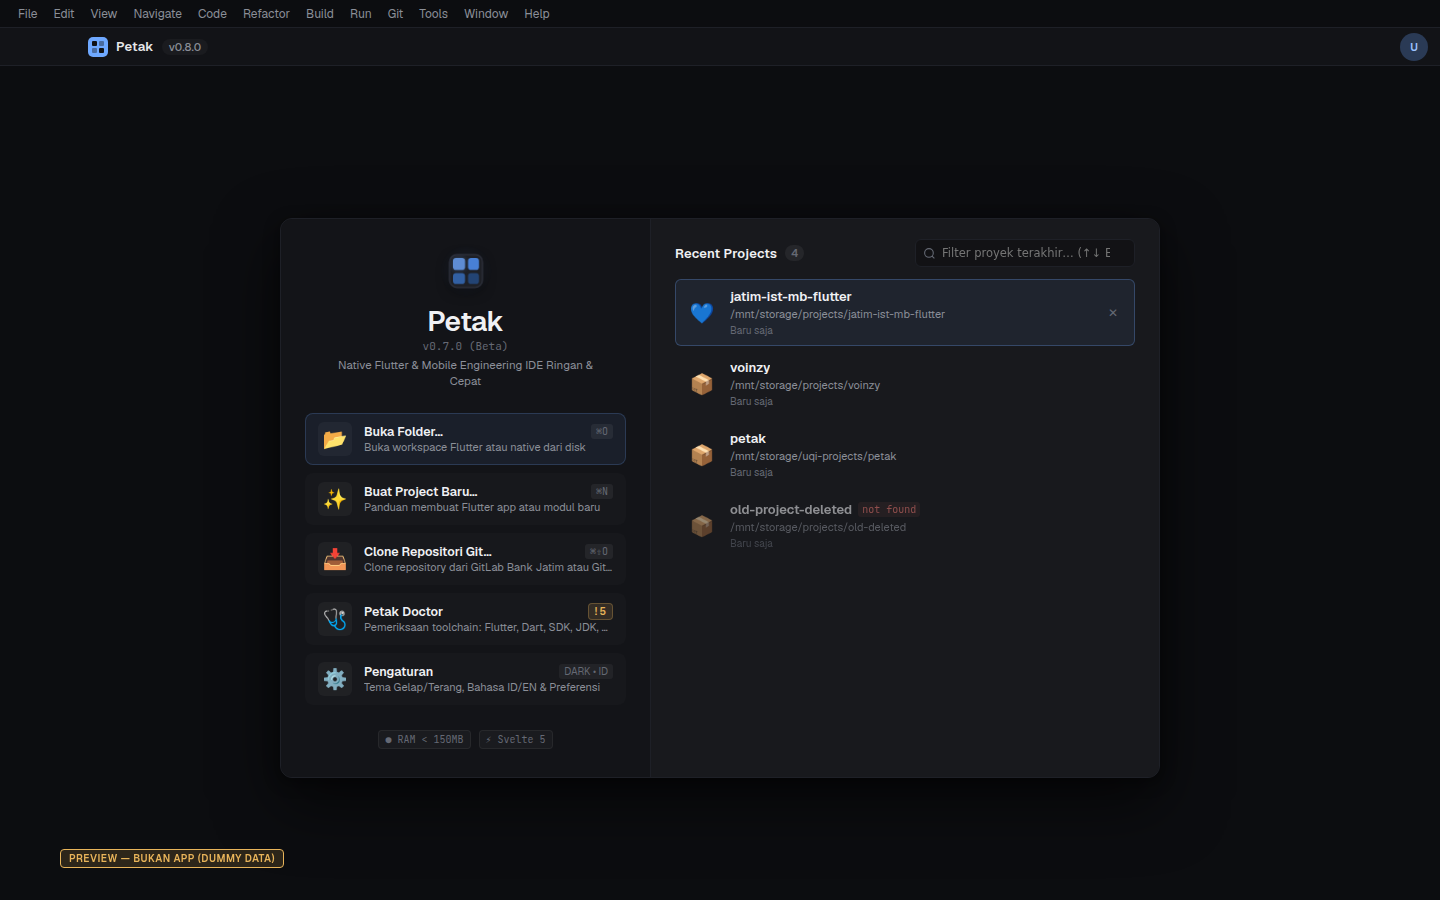
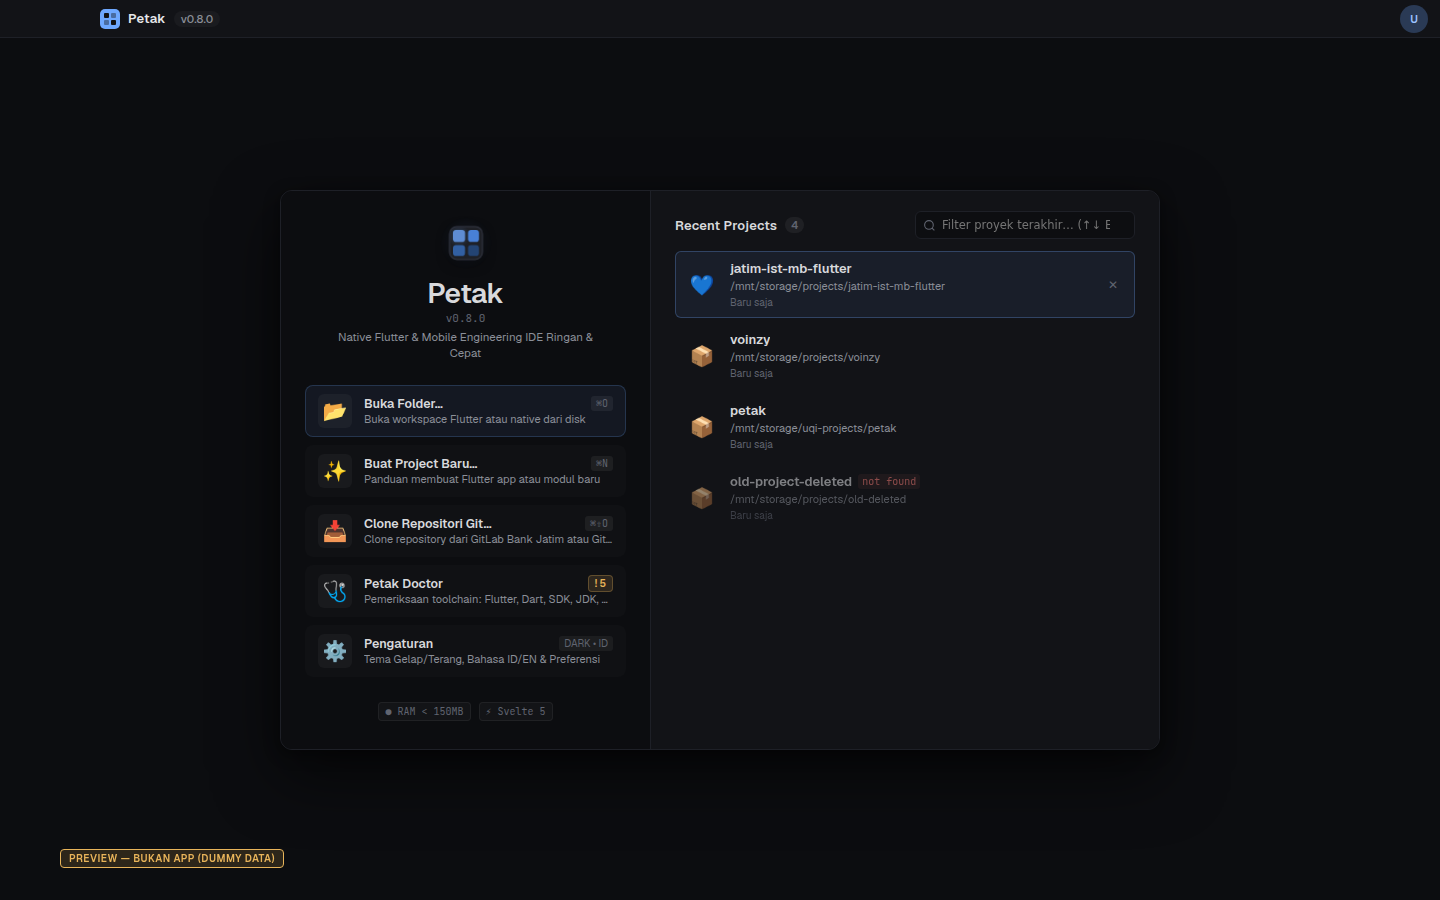
docs: add model selector dropdown to comprehensive prototype and capture screens

diff --git a/docs/redesign/comprehensive-design-system.html b/docs/redesign/comprehensive-design-system.html
@@ -4118,8 +4118,32 @@
                     </div>
 
                     <div>
-                      <label style="font-size: 11px; color: var(--text-muted); display: block; margin-bottom: 4px;">Model ID:</label>
-                      <input type="text" class="setting-select-box" value="claude-3-7-sonnet" style="width: 100%; font-family: var(--font-mono);">
+                      <label style="font-size: 11px; color: var(--text-muted); display: block; margin-bottom: 4px;">Model ID (Pilih dari Dropdown):</label>
+                      <select class="setting-select-box" id="demo-model-select" style="width: 100%; font-family: var(--font-mono);" onchange="document.getElementById('demo-model-hint').innerText = this.options[this.selectedIndex].dataset.desc || '';">
+                        <optgroup label="Anthropic Claude">
+                          <option value="claude-3-7-sonnet" data-desc="Hybrid Reasoning & Coding Flagship" selected>Claude 3.7 Sonnet (claude-3-7-sonnet) ★ Rekomendasi</option>
+                          <option value="claude-3-5-sonnet-20241022" data-desc="Coding Utama Cepat & Akurat">Claude 3.5 Sonnet v2 (claude-3-5-sonnet-20241022)</option>
+                          <option value="claude-3-5-haiku-20241022" data-desc="Sangat Cepat & Hemat Token">Claude 3.5 Haiku (claude-3-5-haiku-20241022)</option>
+                          <option value="ag/claude-opus-4-6-thinking" data-desc="via Antigravity / Deep Thinking">Claude Opus 4.6 Thinking (ag/claude-opus-4-6-thinking)</option>
+                        </optgroup>
+                        <optgroup label="Google Gemini">
+                          <option value="ag/gemini-3.8-flash-high" data-desc="via Antigravity — Rekomendasi Hermes">Gemini 3.8 Flash High (ag/gemini-3.8-flash-high) ★ Rekomendasi</option>
+                          <option value="gemini-2.5-pro" data-desc="Reasoning Kuat & Multimodal">Gemini 2.5 Pro (gemini-2.5-pro)</option>
+                          <option value="gemini-2.5-flash" data-desc="Super Cepat & Hemat Kuota">Gemini 2.5 Flash (gemini-2.5-flash)</option>
+                        </optgroup>
+                        <optgroup label="OpenAI GPT">
+                          <option value="gpt-4o" data-desc="Multimodal Omnimodel Flagship">GPT-4o (gpt-4o) ★ Rekomendasi</option>
+                          <option value="gpt-4o-mini" data-desc="Hemat Token & Kencang">GPT-4o Mini (gpt-4o-mini)</option>
+                          <option value="o3-mini" data-desc="STEM & Coding Reasoning">o3-mini (o3-mini)</option>
+                        </optgroup>
+                        <optgroup label="Local Ollama">
+                          <option value="qwen2.5-coder:32b" data-desc="Coding Lokal Terbaik">Qwen 2.5 Coder 32B (qwen2.5-coder:32b) ★ Rekomendasi</option>
+                          <option value="qwen2.5-coder:14b" data-desc="Cepat & Akurat untuk Mac 16GB">Qwen 2.5 Coder 14B (qwen2.5-coder:14b)</option>
+                          <option value="qwen2.5-coder:7b" data-desc="Enteng untuk Mac 8GB">Qwen 2.5 Coder 7B (qwen2.5-coder:7b)</option>
+                        </optgroup>
+                        <option value="custom">✏ Ketik Manual (Custom Model ID)...</option>
+                      </select>
+                      <span id="demo-model-hint" style="font-size: 11px; color: var(--text-muted); display: block; margin-top: 4px;">ℹ Hybrid Reasoning & Coding Flagship</span>
                     </div>
 
                     <div>

diff --git a/ui/App.svelte b/ui/App.svelte
@@ -1511,6 +1511,10 @@
         if (params.has('agent') || window.location.search.includes('preview-agent')) {
           isAgentPanelOpen = true;
         }
+
+        if (params.has('settings') || window.location.search.includes('preview-settings')) {
+          settingsStore.open('agents');
+        }
       }
     }, 50);
 
